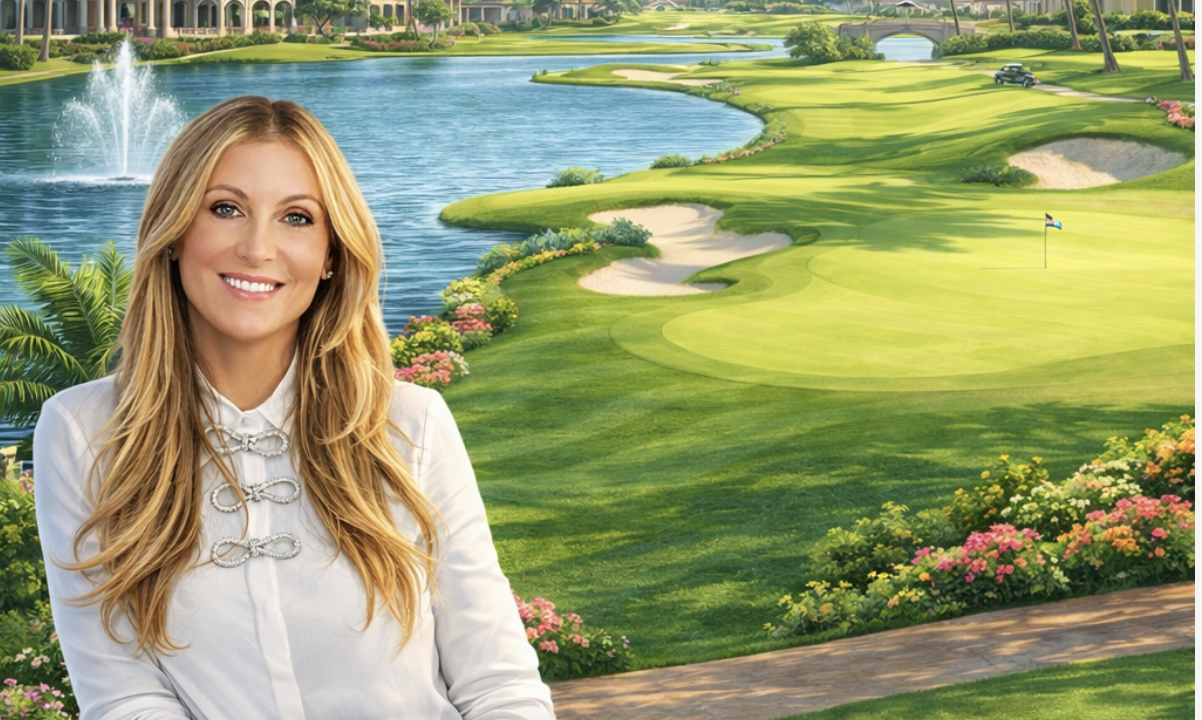
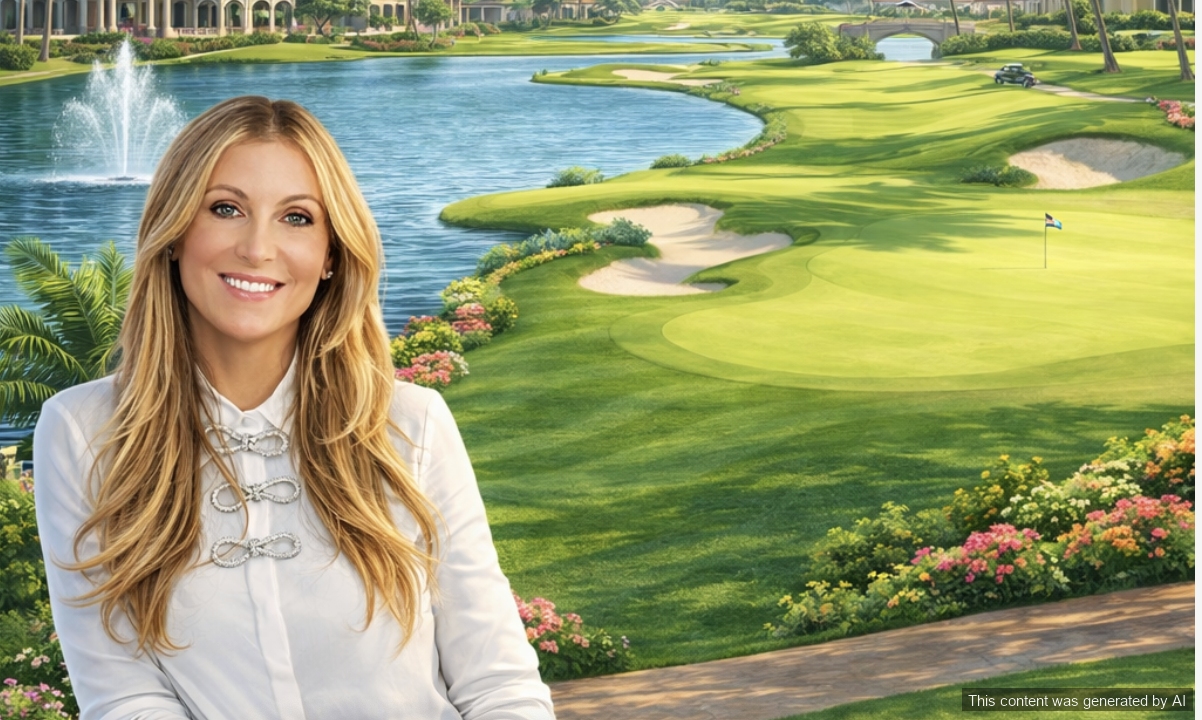
Bake AI disclaimer watermark into image; remove HTML overlay

Changed region(s): [[0.8003, 0.9472, 1.0, 1.0]]

diff --git a/newsletter.html b/newsletter.html
@@ -108,13 +108,10 @@
 
                     <!-- Featured Image -->
                     <tr>
-                        <td style="padding: 0; position: relative;">
-                            <div style="position: relative; display: block; line-height: 0;">
-                                <a href="https://htmlpreview.github.io/?https://github.com/nicole426/Nicole_Polo_Club_Newsletter/blob/main/article.html" target="_blank">
-                                    <img src="https://raw.githubusercontent.com/nicole426/Nicole_Polo_Club_Newsletter/main/Samantha_polo_image.png" alt="Samantha Gornstein at Polo Club" style="width: 100%; height: auto; display: block; border: none;">
-                                </a>
-                                <p style="font-family: Arial, sans-serif; font-size: 9px; color: #ffffff; background-color: rgba(0,0,0,0.45); margin: 0; padding: 3px 7px; position: absolute; bottom: 6px; right: 6px; line-height: 1.4; border-radius: 2px;">This content was generated by AI</p>
-                            </div>
+                        <td style="padding: 0;">
+                            <a href="https://htmlpreview.github.io/?https://github.com/nicole426/Nicole_Polo_Club_Newsletter/blob/main/article.html" target="_blank">
+                                <img src="https://raw.githubusercontent.com/nicole426/Nicole_Polo_Club_Newsletter/main/Samantha_polo_image.png" alt="Samantha Gornstein at Polo Club" style="width: 100%; height: auto; display: block; border: none;">
+                            </a>
                         </td>
                     </tr>
 
